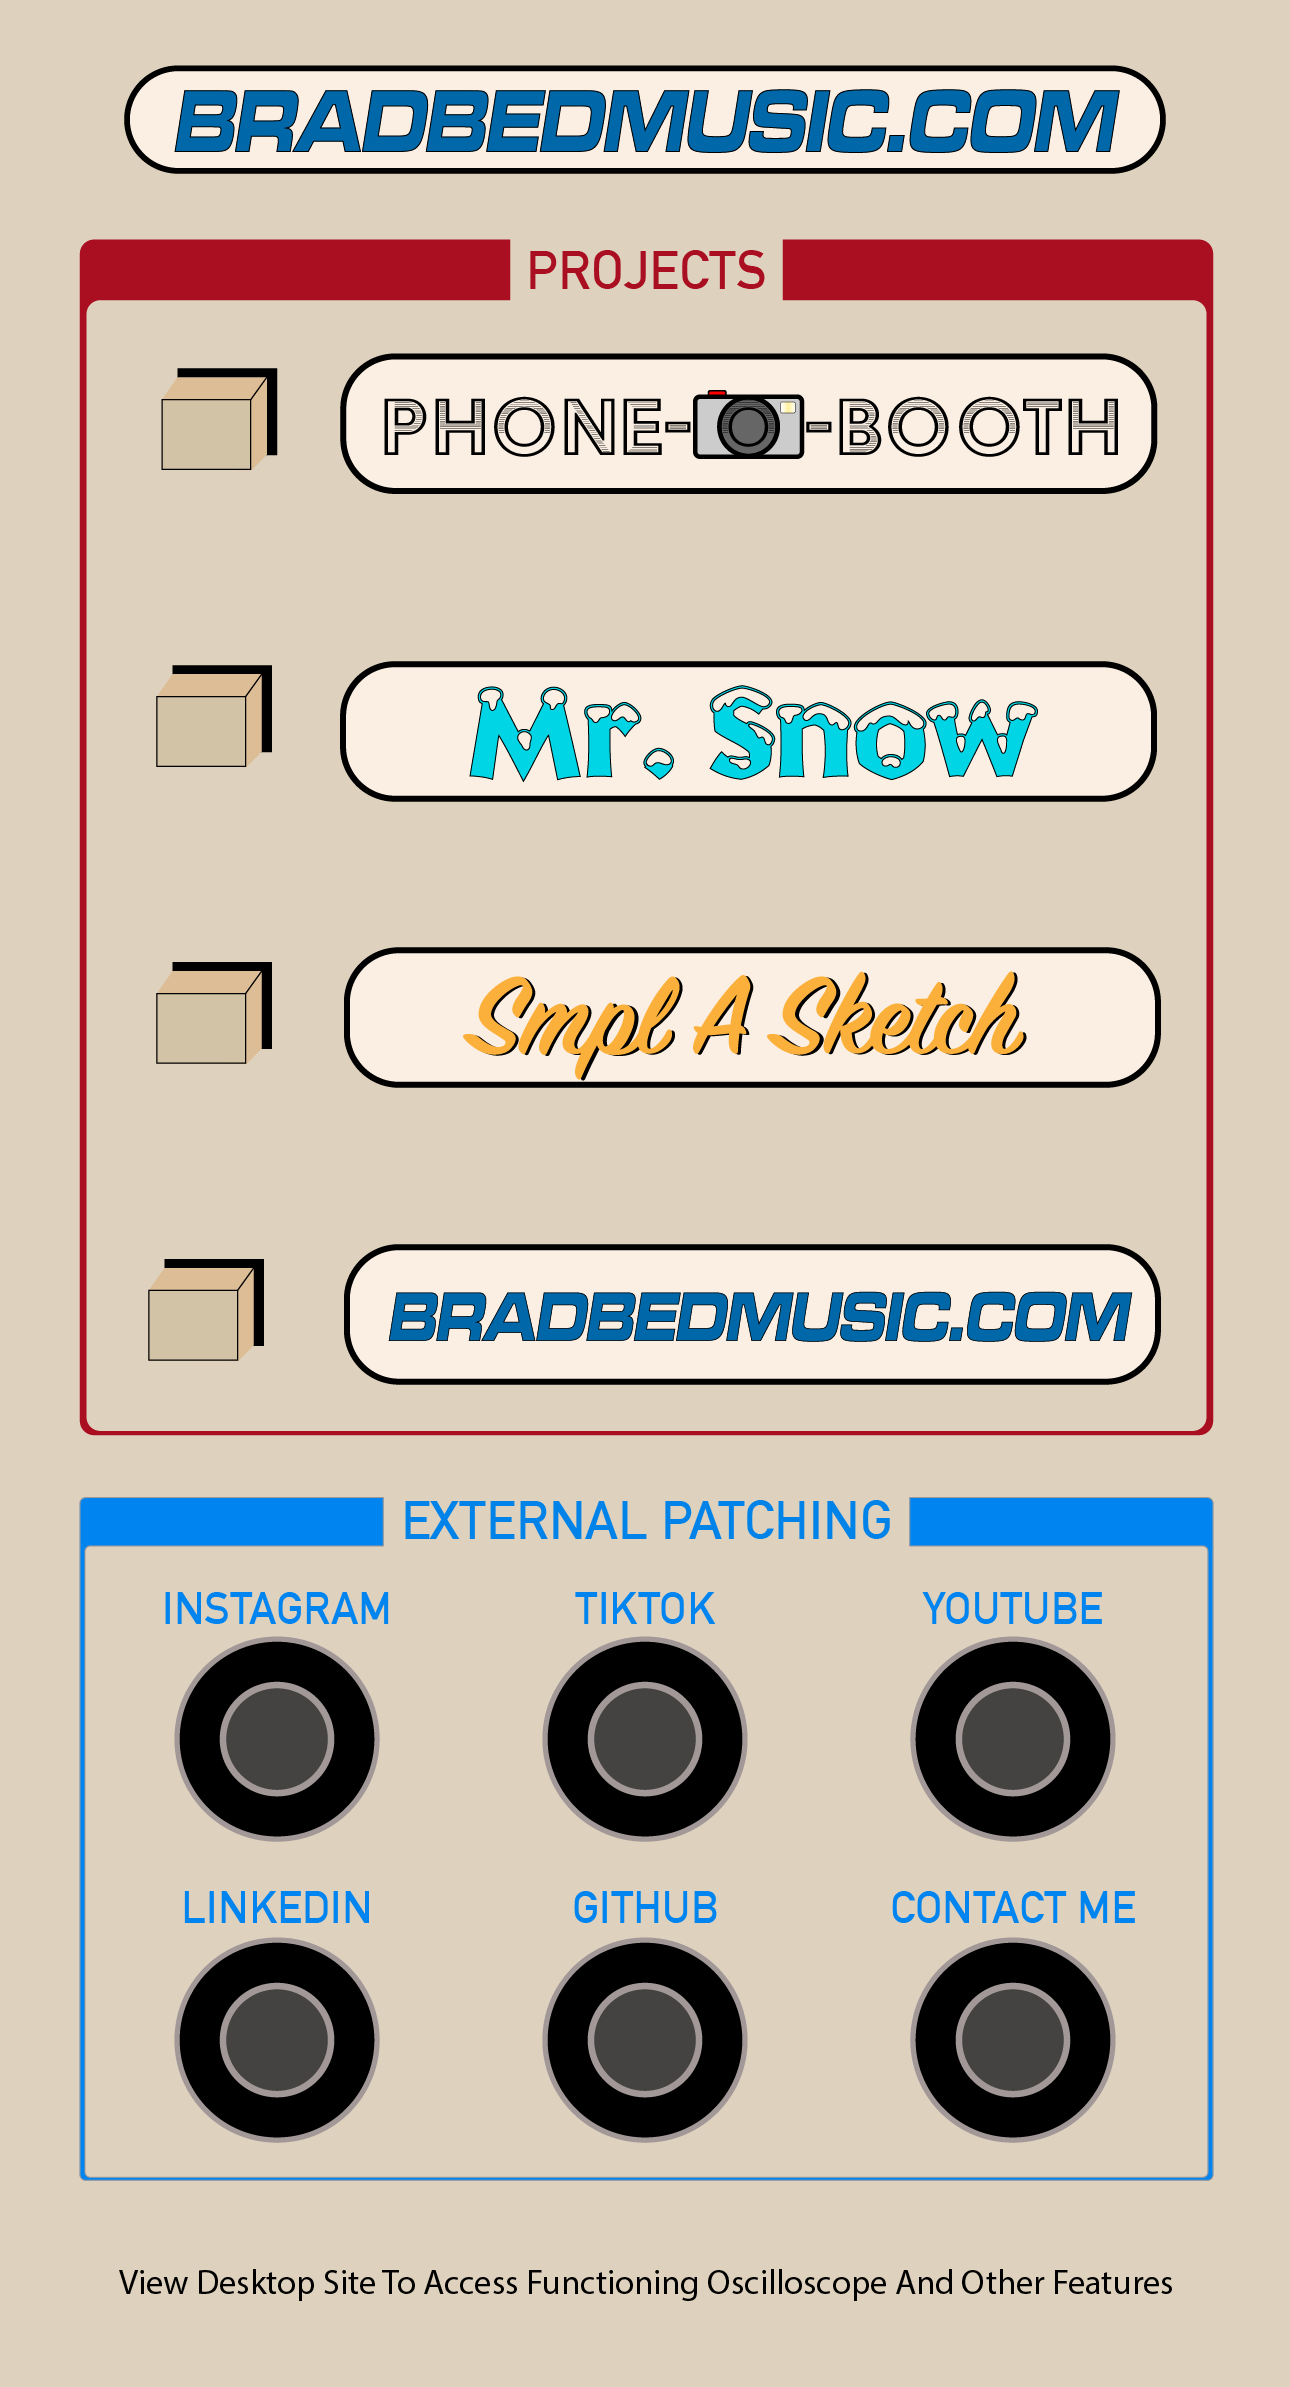
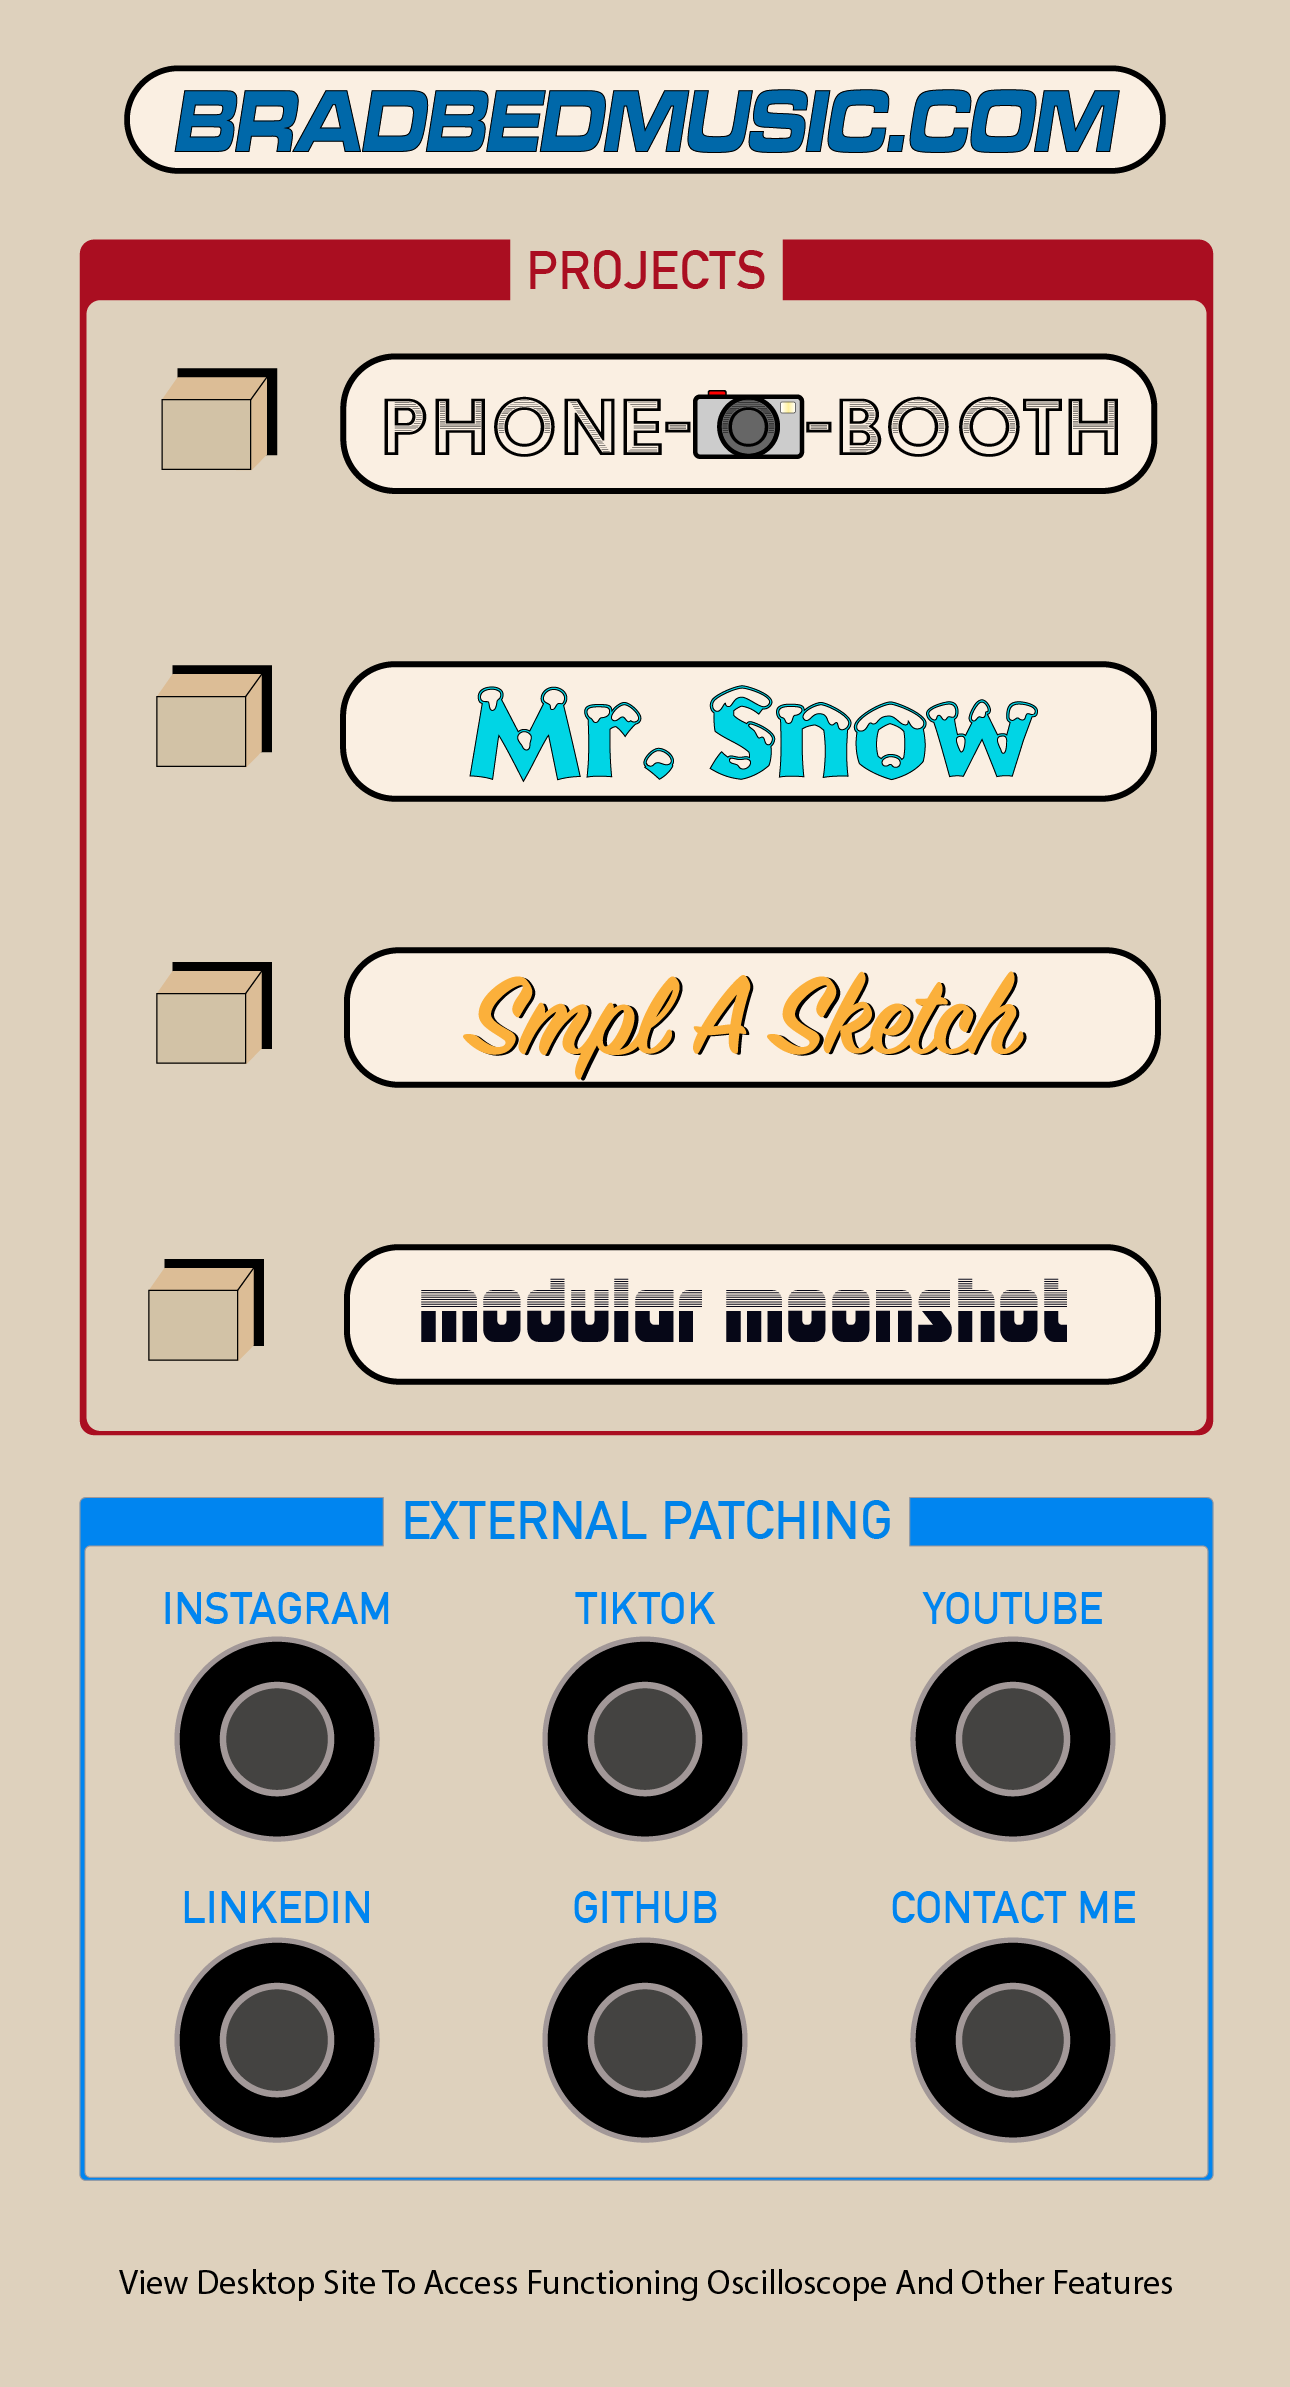
site updates
-graphics
-modular moonshot to proj page
-added slots to upload rnbo documentation

Changed region(s): [[0.3101, 0.527, 0.8992, 0.589]]

diff --git a/modularmoonshot/modularmoonshot.js b/modularmoonshot/modularmoonshot.js
@@ -1,13 +1,14 @@
 let fade = 0;
 let ratioScale;
 let xadd;
+let desktop = true;
 
 let drawThis = false;
 let drawStartx = 0;
 let drawStarty = 0;
 let cableStartJack;
 
-let currentColor = ['red', 'maroon', 'orange', 'yellow', 'olive', 'green', 'blue', 'indigo' ,'purple', 'pink', 'magenta'];
+let currentColor = ['red', 'maroon', 'orange', 'yellow', 'olive', 'green', 'blue', 'indigo', 'purple', 'pink', 'magenta'];
 let colorIndex = 0;
 let colorMax = 11;
 
@@ -19,42 +20,53 @@ const { createDevice } = RNBO; //needed to import RNBO library
 
 function preload() {
   startImg = loadImage('assets/ModularMoonshotOpening.png');
+  mobile = loadImage('assets/MoonshotMobile.png');
   home = loadImage('assets/MoonshotHomepage.png');
   bg = loadImage('assets/ModulesBG.png');
 }
 
 function setup() {
-  let canvas = createCanvas(windowWidth, windowHeight);
-  audioSetup();
-  knobSetup();
-  auxJackSetup();
+  if (windowWidth < windowHeight) {
+    desktop = false;
+    let cnv = createCanvas(windowWidth, windowWidth*1.85);
+  } else {
+    let cnv = createCanvas(windowWidth, windowHeight);
+    audioSetup();
+    knobSetup();
+    auxJackSetup();
+  }
 }
 
 function draw() {
   background(6, 7, 22);
-  noTint();
-  ratioScale = windowHeight/768;
-  xadd = (windowWidth - (ratioScale * 1366))/ 2;
-  if (!test) {
-    if(!begin) {
-      img(startImg, 0, 0, 1366, 768);
-    } else {
-      if (((millis() - startTime) < 1000) && fade == 0) {
-        img(home, 0, 0, 1366, 768);
-      } else if (fade < 405) {
-        tint(255, 255-fade);
-        img(home, 0, 0, 1366, 768);
-        tint(255, fade-150);
-        img(bg, 0, 0, 1366, 768);
-        knobUpdate();
-        auxJackUpdate();
-        fade += 2;
+  if(desktop){
+    noTint();
+    ratioScale = windowHeight/768;
+    xadd = (windowWidth - (ratioScale * 1366))/ 2;
+    if (!test) {
+      if (!begin) {
+        img(startImg, 0, 0, 1366, 768);
       } else {
-        standardDraw();
+        if (((millis() - startTime) < 1000) && fade == 0) {
+          img(home, 0, 0, 1366, 768);
+        } else if (fade < 405) {
+          tint(255, 255-fade);
+          img(home, 0, 0, 1366, 768);
+          tint(255, fade-150);
+          img(bg, 0, 0, 1366, 768);
+          knobUpdate();
+          auxJackUpdate();
+          fade += 2;
+        } else {
+          standardDraw();
+        }
       }
+    } else {
+      standardDraw();
     }
   } else {
-    standardDraw();
+      ratioScale = windowWidth/1290; //sets scaling var
+      image(mobile, 0, 0, ratioScale*1290, ratioScale*2387) 
   }
 }
 
@@ -75,7 +87,7 @@ function img(name, x, y, w, h) {
 
 function keyPressed() {
   if (key === 'b') {
-    if (begin == false){
+    if (begin == false) {
       begin = true;
       startTime = millis();
       console.log(startTime);
@@ -92,19 +104,18 @@ function mouseReleased() {
 }
 
 function cableDraw() {
-if(drawThis){
+  if (drawThis) {
     push();
     stroke('white');
     strokeWeight(10*ratioScale);
     line(drawStartx, drawStarty, mouseX, mouseY);
     pop();
-    
+
     push();
     stroke(currentColor[colorIndex]);
     strokeWeight(6*ratioScale);
     line(drawStartx, drawStarty, mouseX, mouseY);
     pop();
-
   }
 }
 

diff --git a/desktopHomepage.js b/desktopHomepage.js
@@ -165,9 +165,9 @@ function projectsMenu() {
   if (projscroller == 0) {
     drawProject(modularscreen);
   } else if (projscroller == 1) {
-    drawProject(photoscreen);
-  } else if (projscroller == 2) {
     drawProject(snowscreen);
+  } else if (projscroller == 2) {
+    drawProject(photoscreen);
   } else if (projscroller == 3) {
     drawProject(smplscreen);
   } else {
@@ -180,9 +180,9 @@ function projLinks() {
     if (projscroller == 0) {
       window.location.href = "modularmoonshot";
     } else if (projscroller == 1) {
-      window.location.href = "phoneobooth";
-    } else if (projscroller == 2) {
       window.location.href = "mrsnow";
+    } else if (projscroller == 2) {
+      window.location.href = "phoneobooth";
     } else if (projscroller == 3) {
       window.open('https://drive.google.com/file/d/1WsKUzg5BFox6iBBhxvZxEZnhlS8QMoKl/view?usp=sharing', "_self");
     }

diff --git a/about/about.js b/about/about.js
@@ -50,11 +50,11 @@ function mouseClicked() {
     if (buttonBounds(1155, 436, 147, 24)) {
       window.open("https://bradbedmusic.com", "_self");
     } else if (buttonBounds(977, 217, 131, 26)) {
-      window.open('https://drive.google.com/file/d/1WsKUzg5BFox6iBBhxvZxEZnhlS8QMoKl/view?usp=sharing', "_self");
+      window.open('https://bradbedmusic.com/modularmoonshot', "_self");
     } else if (buttonBounds(977, 258, 131, 26)) {
       window.open('https://bradbedmusic.com/mrsnow', "_self");
     } else if (buttonBounds(977, 296, 131, 26)) {
-      window.open("https://bradbedmusic.com/phoneobooth", "_self");
+      window.open("https://drive.google.com/file/d/1WsKUzg5BFox6iBBhxvZxEZnhlS8QMoKl/view?usp=sharing", "_self");
     }
   } else {
     mobileExternalPatching(3939);

diff --git a/projects/projects.js b/projects/projects.js
@@ -74,7 +74,7 @@ function buttonMReleaseHandler() {
     window.open('https://drive.google.com/file/d/1WsKUzg5BFox6iBBhxvZxEZnhlS8QMoKl/view?usp=sharing', "_self");
     smplClick = !smplClick;
   } else if (buttonBounds(162, 1259, 115, 102)) {
-    window.open('https://www.bradbedmusic.com', "_self");
+    window.open('https://www.bradbedmusic.com/modularmoonshot', "_self");
     siteClick = !siteClick;
   }
 }
